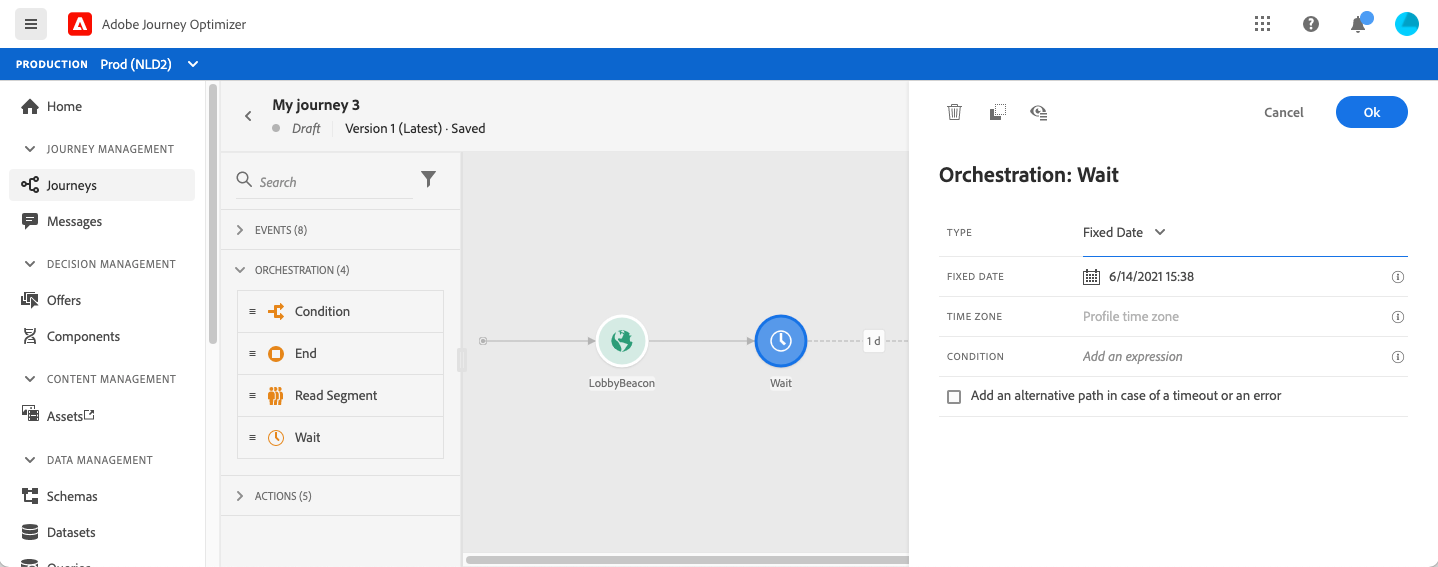
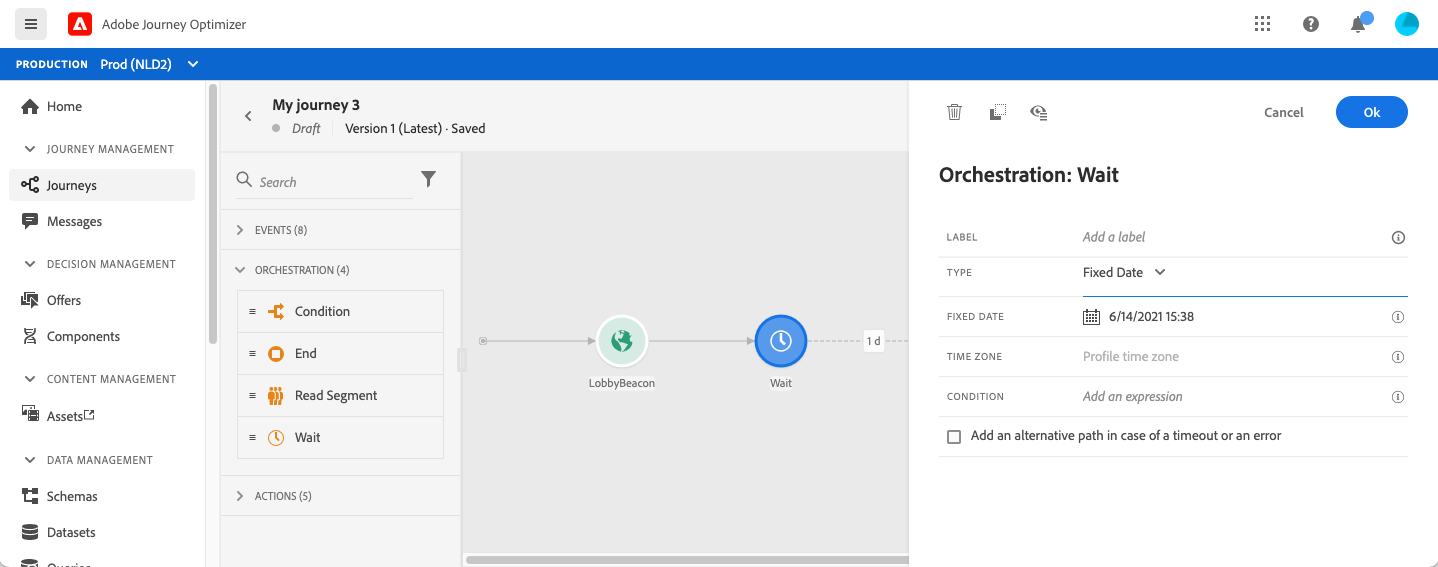
fix for DOCAC-6863

diff --git a/help/using/release-notes.md b/help/using/release-notes.md
@@ -71,8 +71,8 @@ This page lists all the new features and improvements for [!DNL Journey Optimize
 **Journeys**
 
 * System generated schemas and datasets that have been created during provisioning for step events are now in read-only mode, safeguarding against any inadvertant modifications to critical schemas.
-* Cleanly label the **Wait** activity with a label that will be displayed in the canvas. The label is also used in reporting and test mode logs to clearly identify what you are doing.
-* Find your events and actions faster by filtering elements in the **Events** and **Action** categories using search. Orchestration activities are no longer filtered.
+* Cleanly label the **Wait** activity with a label that will be displayed in the canvas. The label is also used in reporting and test mode logs to clearly identify what you are doing. [Learn more](building-journeys/using-the-journey-designer.md) 
+* Find your events and actions faster by filtering elements in the **Events** and **Action** categories using search. Orchestration activities are no longer filtered. [Learn more](building-journeys/about-creating.md) 
 * When defining an event ID condition in a rule-based or business event, the "contains" operator is now available for string types of fields. [Learn more](event/about-creating.md) 
 
 ## August 2021 Release {#august-2021-release}
